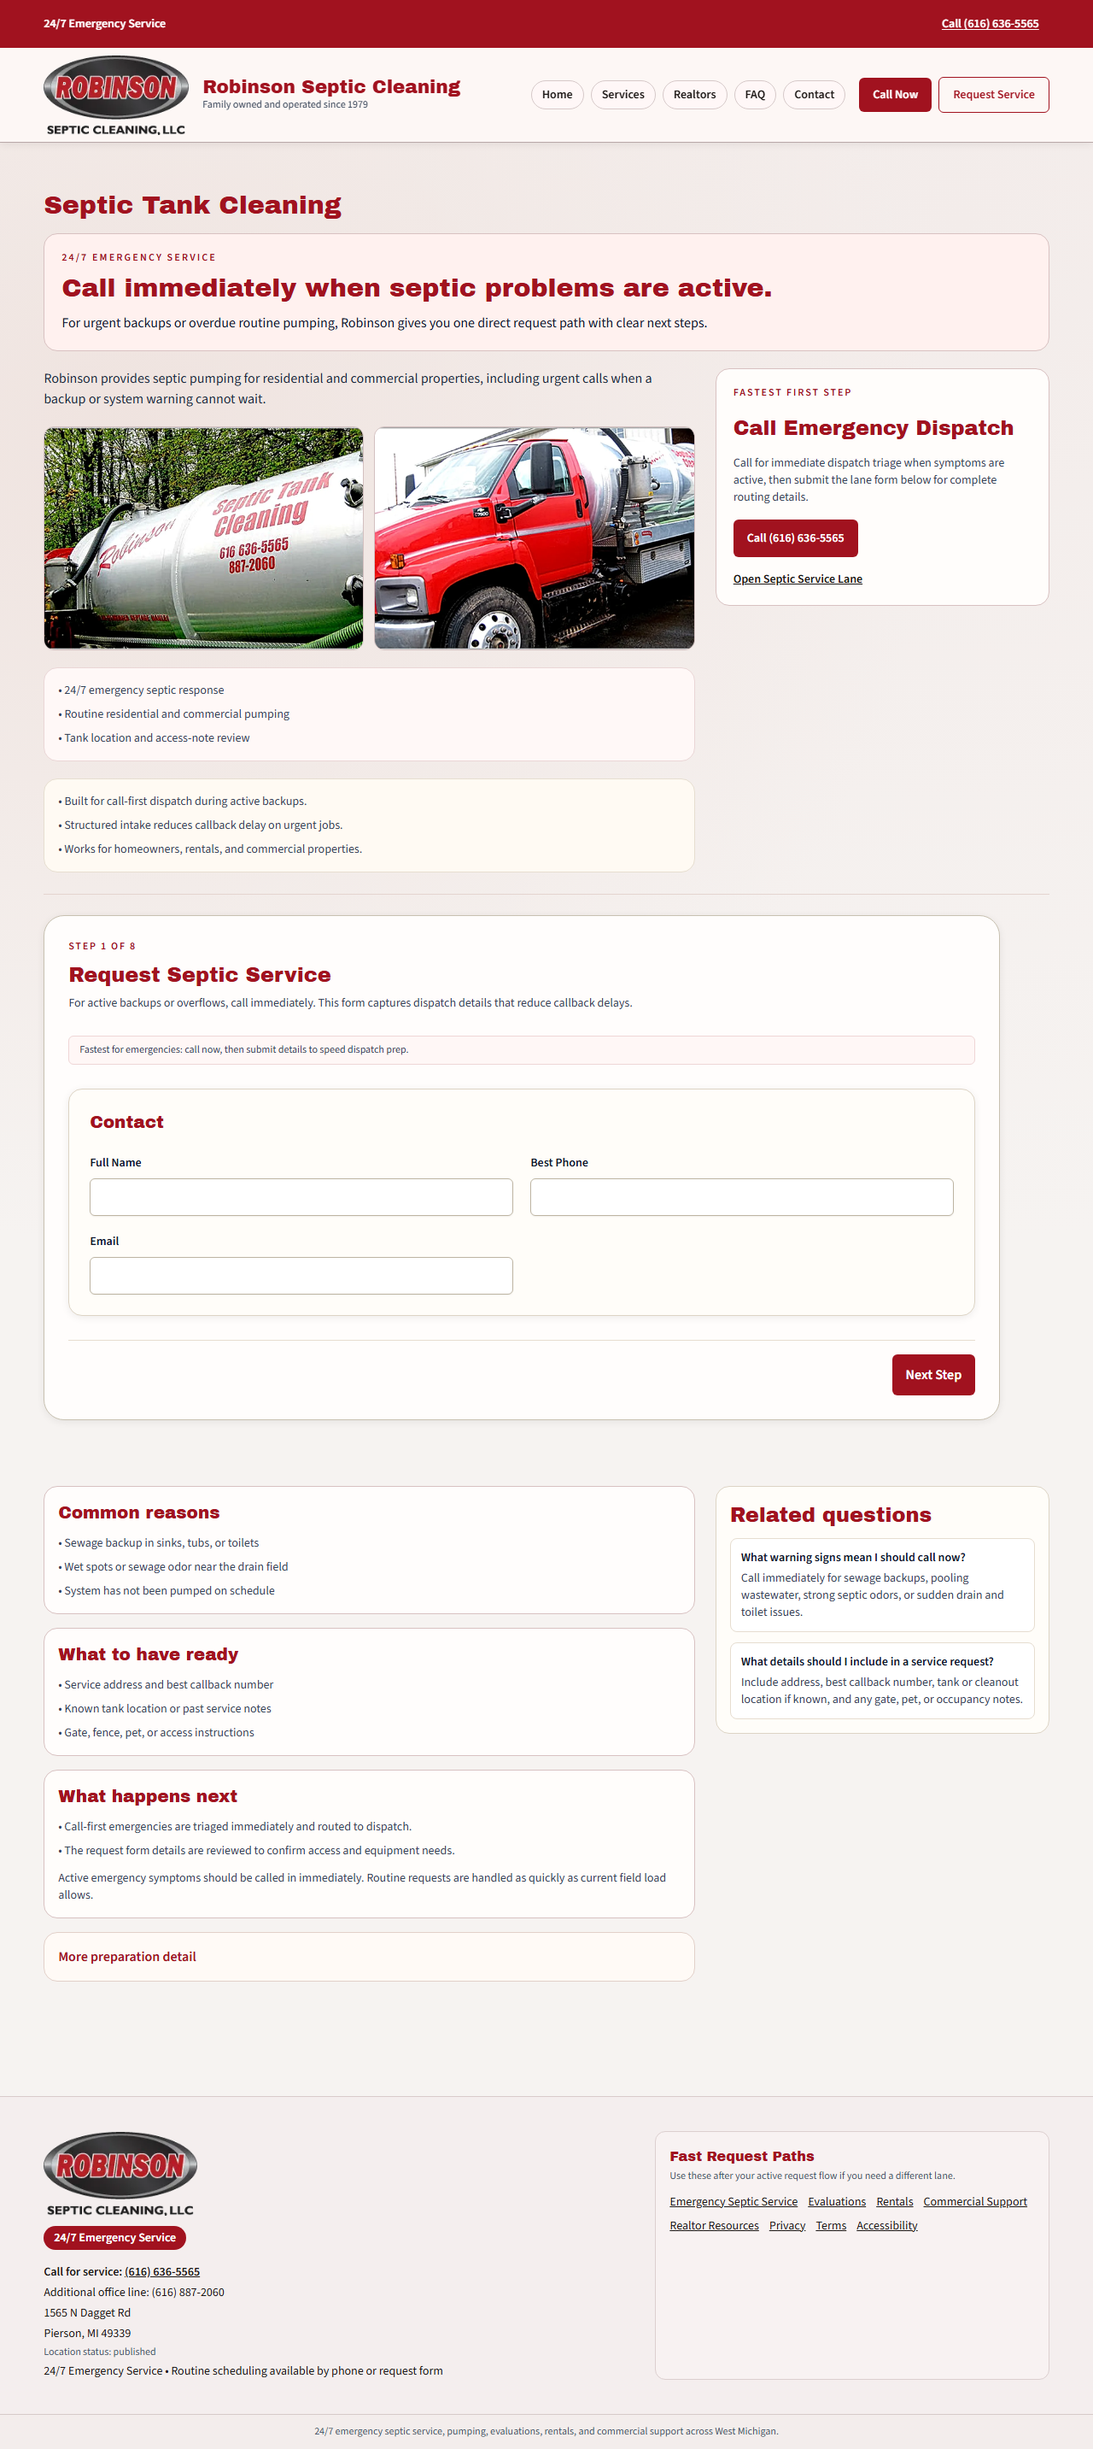
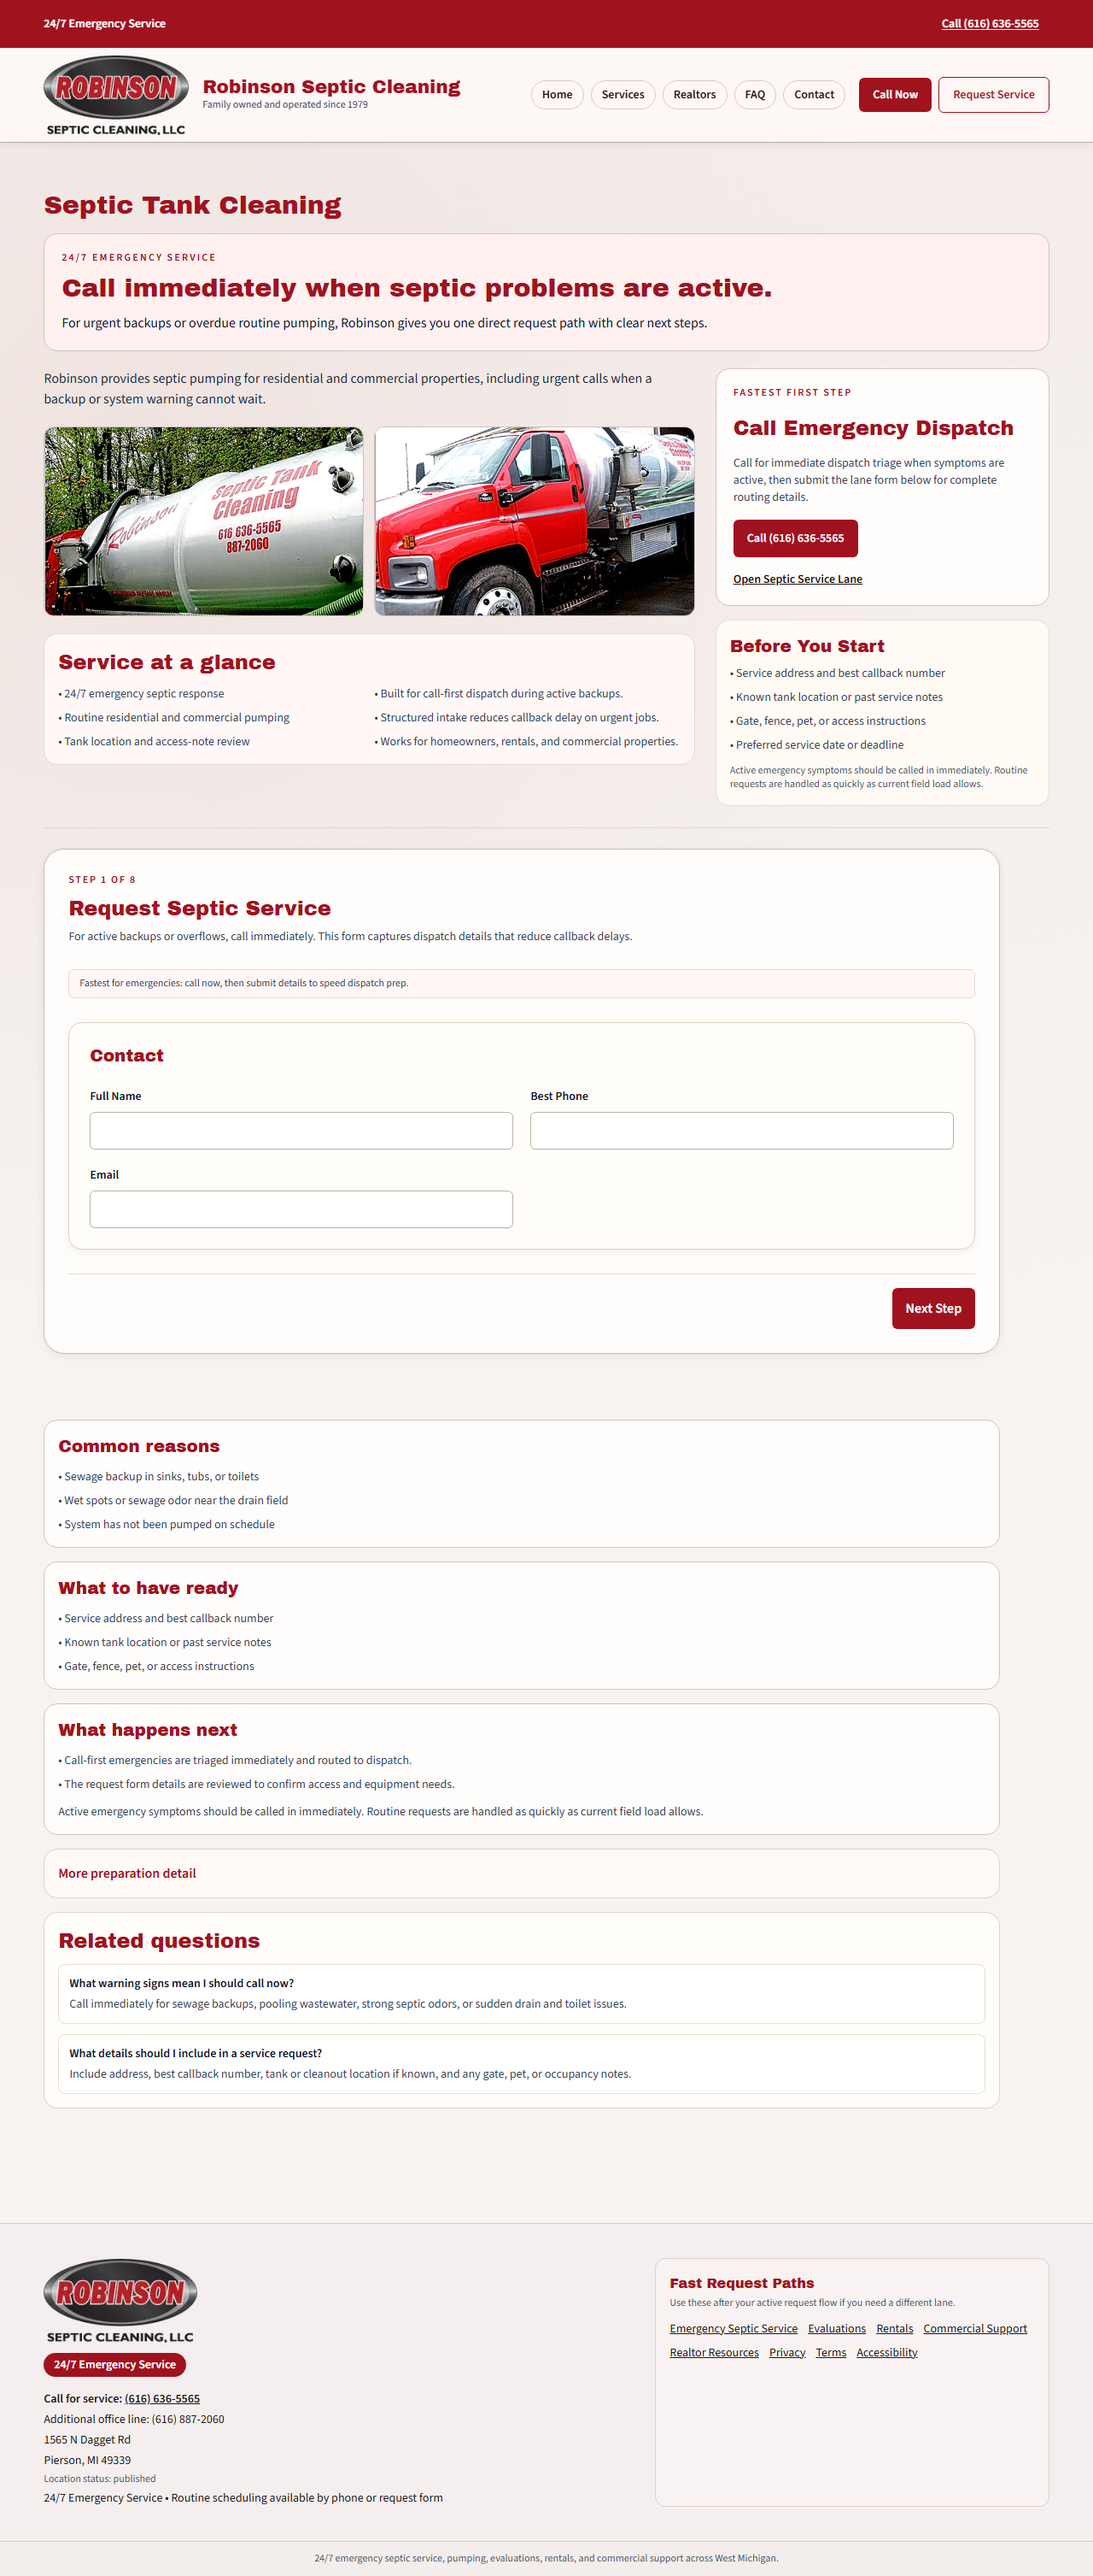
Audit and tighten request-page composition compliance

diff --git a/src/components/site/ServiceRequestPageTemplate.tsx b/src/components/site/ServiceRequestPageTemplate.tsx
@@ -35,59 +35,75 @@ export function ServiceRequestPageTemplate({ entry }: ServiceRequestPageTemplate
             <div className={`grid gap-3 ${entry.media.length > 1 ? "sm:grid-cols-2" : ""}`}>
               {entry.media.map((image) => (
                 <div key={image.src} className="overflow-hidden rounded-xl border border-[#d3c0c0]">
-                  <Image src={image.src} alt={image.alt} width={1200} height={720} className="h-[260px] w-full object-cover" />
+                  <Image src={image.src} alt={image.alt} width={1200} height={720} className="h-[220px] w-full object-cover" />
                 </div>
               ))}
             </div>
-            <ul className="grid gap-2 rounded-2xl border border-[#ead6d6] bg-[#fff8f7] p-4 text-sm text-slate-700">
-              {entry.slots.includedItems.map((bullet) => (
-                <li key={bullet}>• {bullet}</li>
-              ))}
-            </ul>
-            <ul className="grid gap-2 rounded-2xl border border-[#e6ded0] bg-[#fffaf3] p-4 text-sm text-slate-700">
-              {entry.slots.proofPoints.map((point) => (
-                <li key={point}>• {point}</li>
-              ))}
-            </ul>
+            <div className="grid gap-3 rounded-2xl border border-[#ead6d6] bg-[#fff8f7] p-4">
+              <h3 className="font-display text-2xl text-[var(--brand)]">Service at a glance</h3>
+              <div className="grid gap-3 sm:grid-cols-2">
+                <ul className="grid gap-2 text-sm text-slate-700">
+                  {entry.slots.includedItems.slice(0, 3).map((bullet) => (
+                    <li key={bullet}>• {bullet}</li>
+                  ))}
+                </ul>
+                <ul className="grid gap-2 text-sm text-slate-700">
+                  {entry.slots.proofPoints.slice(0, 3).map((point) => (
+                    <li key={point}>• {point}</li>
+                  ))}
+                </ul>
+              </div>
+            </div>
           </div>
           }
           topSecondary={
-          <div className="grid gap-4 rounded-2xl border border-[#d8c1c1] bg-[#fffdfb] p-5">
-            <p className="text-xs font-semibold uppercase tracking-[0.16em] text-[var(--brand)]">Fastest first step</p>
-            <h3 className="font-display text-2xl text-[var(--brand)]">{entry.slots.primaryCta.label}</h3>
-            <p className="text-sm text-slate-700">Call for immediate dispatch triage when symptoms are active, then submit the lane form below for complete routing details.</p>
-            <a className="inline-flex min-h-11 w-fit items-center rounded-md bg-[var(--brand)] px-4 py-3 text-sm font-semibold text-white" href={callHref}>
-              Call {company.primaryPhone}
-            </a>
-            {entry.slots.secondaryCta ? (
-              <Link className="inline-block text-sm font-semibold underline" href={entry.slots.secondaryCta.href}>
-                {entry.slots.secondaryCta.label}
-              </Link>
-            ) : null}
+          <div className="grid gap-4">
+            <div className="grid gap-4 rounded-2xl border border-[#d8c1c1] bg-[#fffdfb] p-5">
+              <p className="text-xs font-semibold uppercase tracking-[0.16em] text-[var(--brand)]">Fastest first step</p>
+              <h3 className="font-display text-2xl text-[var(--brand)]">{entry.slots.primaryCta.label}</h3>
+              <p className="text-sm text-slate-700">Call for immediate dispatch triage when symptoms are active, then submit the lane form below for complete routing details.</p>
+              <a className="inline-flex min-h-11 w-fit items-center rounded-md bg-[var(--brand)] px-4 py-3 text-sm font-semibold text-white" href={callHref}>
+                Call {company.primaryPhone}
+              </a>
+              {entry.slots.secondaryCta ? (
+                <Link className="inline-block text-sm font-semibold underline" href={entry.slots.secondaryCta.href}>
+                  {entry.slots.secondaryCta.label}
+                </Link>
+              ) : null}
+            </div>
+            <div className="rounded-2xl border border-[#e6ddd0] bg-[#fffaf3] p-4">
+              <h4 className="font-display text-xl text-[var(--brand)]">Before You Start</h4>
+              <ul className="mt-2 grid gap-2 text-sm text-slate-700">
+                {content.whatToHaveReady.slice(0, 4).map((item) => (
+                  <li key={item}>• {item}</li>
+                ))}
+              </ul>
+              <p className="mt-3 text-xs text-slate-600">{content.responseExpectation}</p>
+            </div>
           </div>
           }
           form={<RequestForm type={entry.formType} title={entry.formTitle} />}
           postForm={
-            <RequestSupportBlocks
-              reasons={content.reasonsToCall}
-              whatToHaveReady={content.whatToHaveReady}
-              nextSteps={content.nextSteps}
-              responseExpectation={content.responseExpectation}
-              variant="compact"
-            />
-          }
-          postFormSecondary={
-            <div className="grid gap-3 rounded-2xl border border-[#ddd4c5] bg-[#fffdf9] p-4">
-              <h3 className="font-display text-2xl text-[var(--brand)]">Related questions</h3>
-              {entry.slots.faqSubset.map((item) => (
-                <article key={item.question} className="rounded-lg border border-[#e6ddd0] bg-white p-3">
-                  <h4 className="text-sm font-semibold text-slate-900">{item.question}</h4>
-                  <p className="mt-1 text-sm text-slate-700">{item.answer}</p>
-                </article>
-              ))}
+            <div className="grid gap-4">
+              <RequestSupportBlocks
+                reasons={content.reasonsToCall}
+                whatToHaveReady={content.whatToHaveReady}
+                nextSteps={content.nextSteps}
+                responseExpectation={content.responseExpectation}
+                variant="compact"
+              />
+              <div className="grid gap-3 rounded-2xl border border-[#ddd4c5] bg-[#fffdf9] p-4">
+                <h3 className="font-display text-2xl text-[var(--brand)]">Related questions</h3>
+                {entry.slots.faqSubset.map((item) => (
+                  <article key={item.question} className="rounded-lg border border-[#e6ddd0] bg-white p-3">
+                    <h4 className="text-sm font-semibold text-slate-900">{item.question}</h4>
+                    <p className="mt-1 text-sm text-slate-700">{item.answer}</p>
+                  </article>
+                ))}
+              </div>
             </div>
           }
-          postFormMode="support-rail"
+          postFormMode="full-width"
         />
       </div>
     </Section>

diff --git a/tests/request-layout-contract.spec.ts b/tests/request-layout-contract.spec.ts
@@ -52,7 +52,7 @@ function run() {
     "ServiceRequestPageTemplate must bind routeId from template entry",
   );
   assert.ok(
-    templateSource.includes('postFormMode="support-rail"'),
+    templateSource.includes('postFormMode="full-width"'),
     "ServiceRequestPageTemplate must explicitly declare post-form layout mode",
   );
 

diff --git a/docs/design/task-page-large-screen-composition-contract.md b/docs/design/task-page-large-screen-composition-contract.md
@@ -26,9 +26,10 @@
 
 ## Spatial Rules
 1. Large-screen blank right-side bands are not allowed unless they are the intentional gutter of the active mode.
-2. Pre-form support content must be compressed or moved out of the form-priority section.
-3. Step actions must remain attached to the form shell, not the outer page band.
-4. Footer entry must be visually separated from the active form runway.
+2. In `support-rail` mode, right-rail content must not be materially shorter than the paired primary column such that obvious right-column voids appear.
+3. Pre-form support content must be compressed or moved out of the form-priority section.
+4. Step actions must remain attached to the form shell, not the outer page band.
+5. Footer entry must be visually separated from the active form runway.
 
 ## Evidence Contract
 1. Desktop screenshots required at `1280`, `1440`, and `1920` for:

diff --git a/docs/route-layout-compliance-audit-58-64.md b/docs/route-layout-compliance-audit-58-64.md
@@ -13,8 +13,8 @@ Contract marker source:
 ## Route compliance
 | Route | Intro mode | Form mode | Post-form mode |
 | --- | --- | --- | --- |
-| `/services/septic-cleaning` | support-rail | full-width | support-rail |
-| `/services/well-septic-evaluations` | support-rail | full-width | support-rail |
+| `/services/septic-cleaning` | support-rail | full-width | full-width |
+| `/services/well-septic-evaluations` | support-rail | full-width | full-width |
 | `/services/portable-toilets` | support-rail | full-width | none |
 | `/services/commercial` | support-rail | full-width | none |
 | `/contact` | support-rail | full-width | none |

diff --git a/docs/ISSUE-143-152-CLOSEOUT.md b/docs/ISSUE-143-152-CLOSEOUT.md
@@ -24,8 +24,8 @@
   - `data-task-page-layout-mode="support-rail|full-width"`
 
 ## Layout Mode Inventory
-- `/services/septic-cleaning`: `support-rail -> full-width -> support-rail`
-- `/services/well-septic-evaluations`: `support-rail -> full-width -> support-rail`
+- `/services/septic-cleaning`: `support-rail -> full-width -> full-width`
+- `/services/well-septic-evaluations`: `support-rail -> full-width -> full-width`
 - `/services/portable-toilets`: `support-rail -> full-width`
 - `/services/commercial`: `support-rail -> full-width`
 - `/contact`: `support-rail -> full-width`
